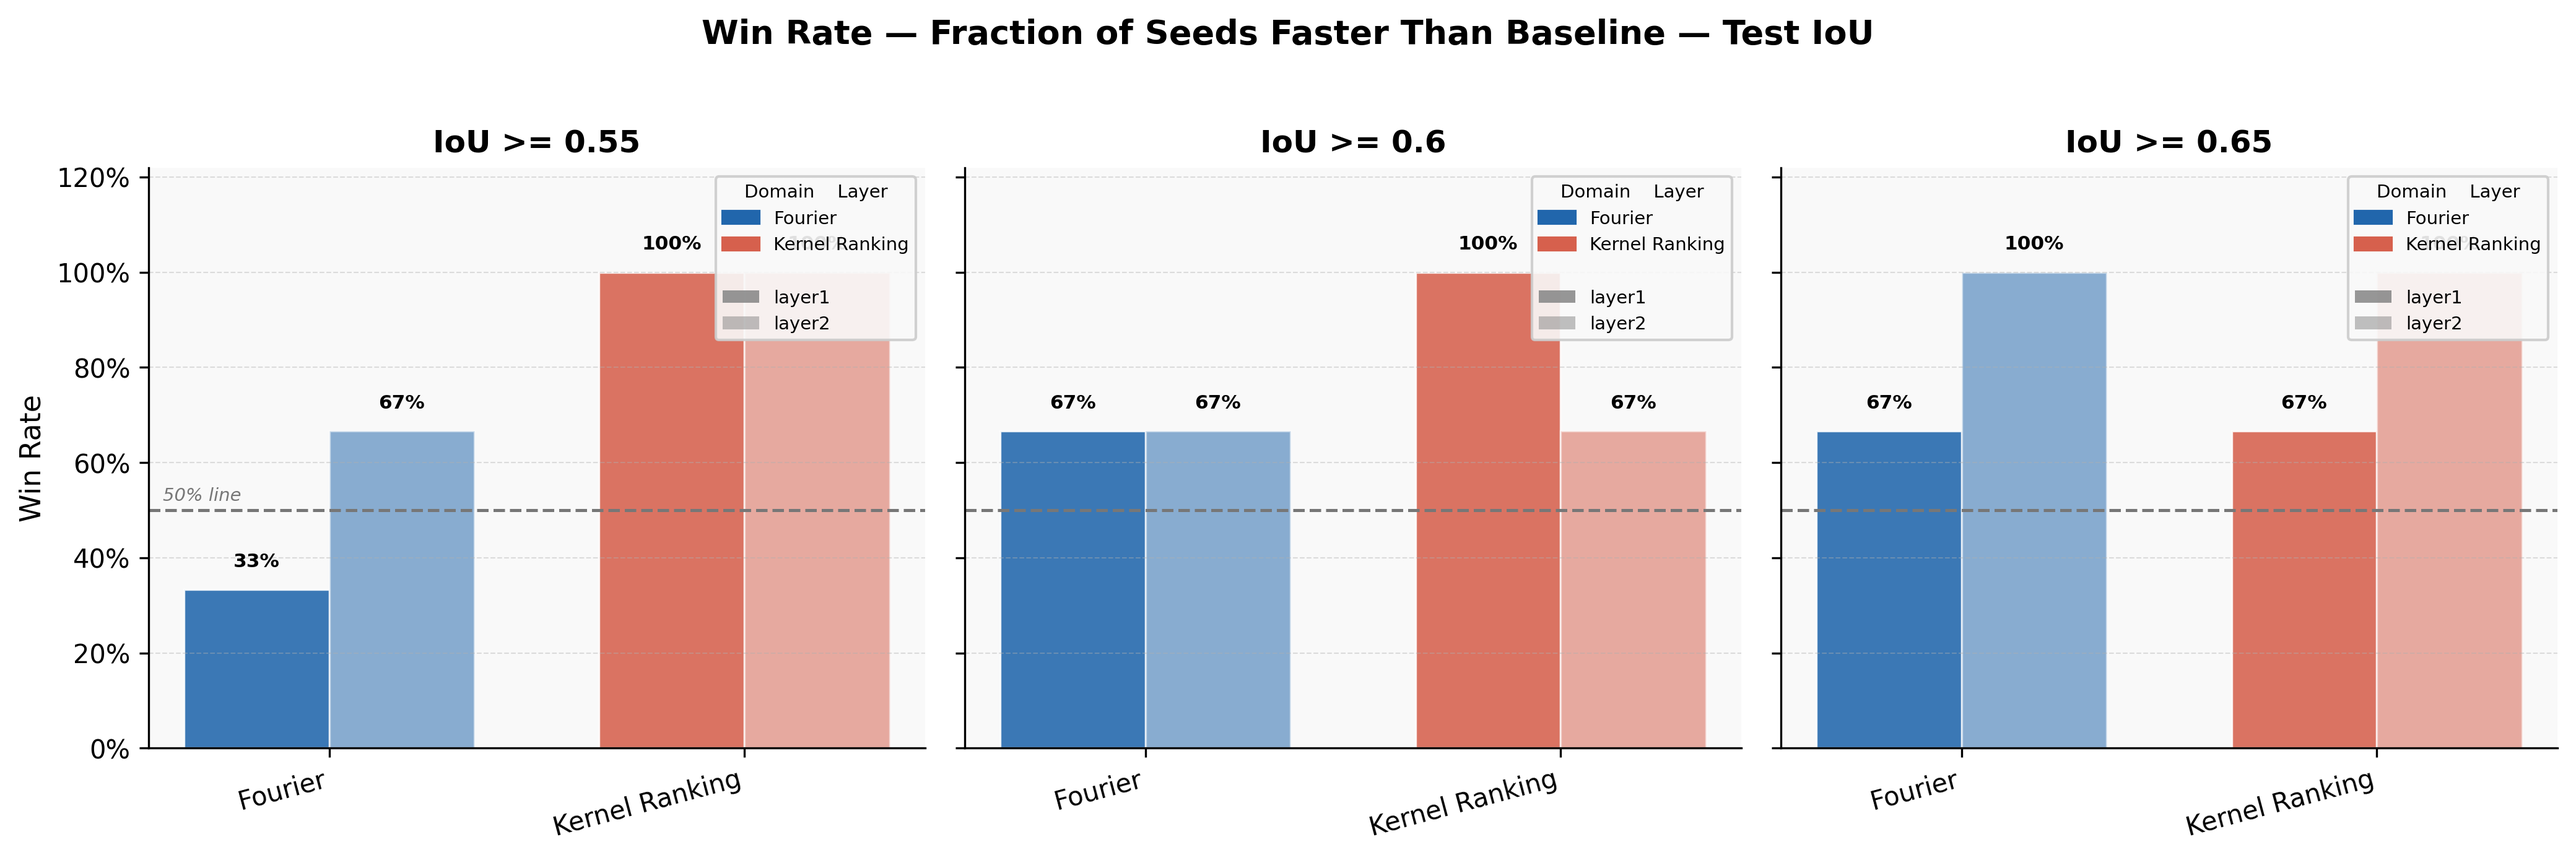
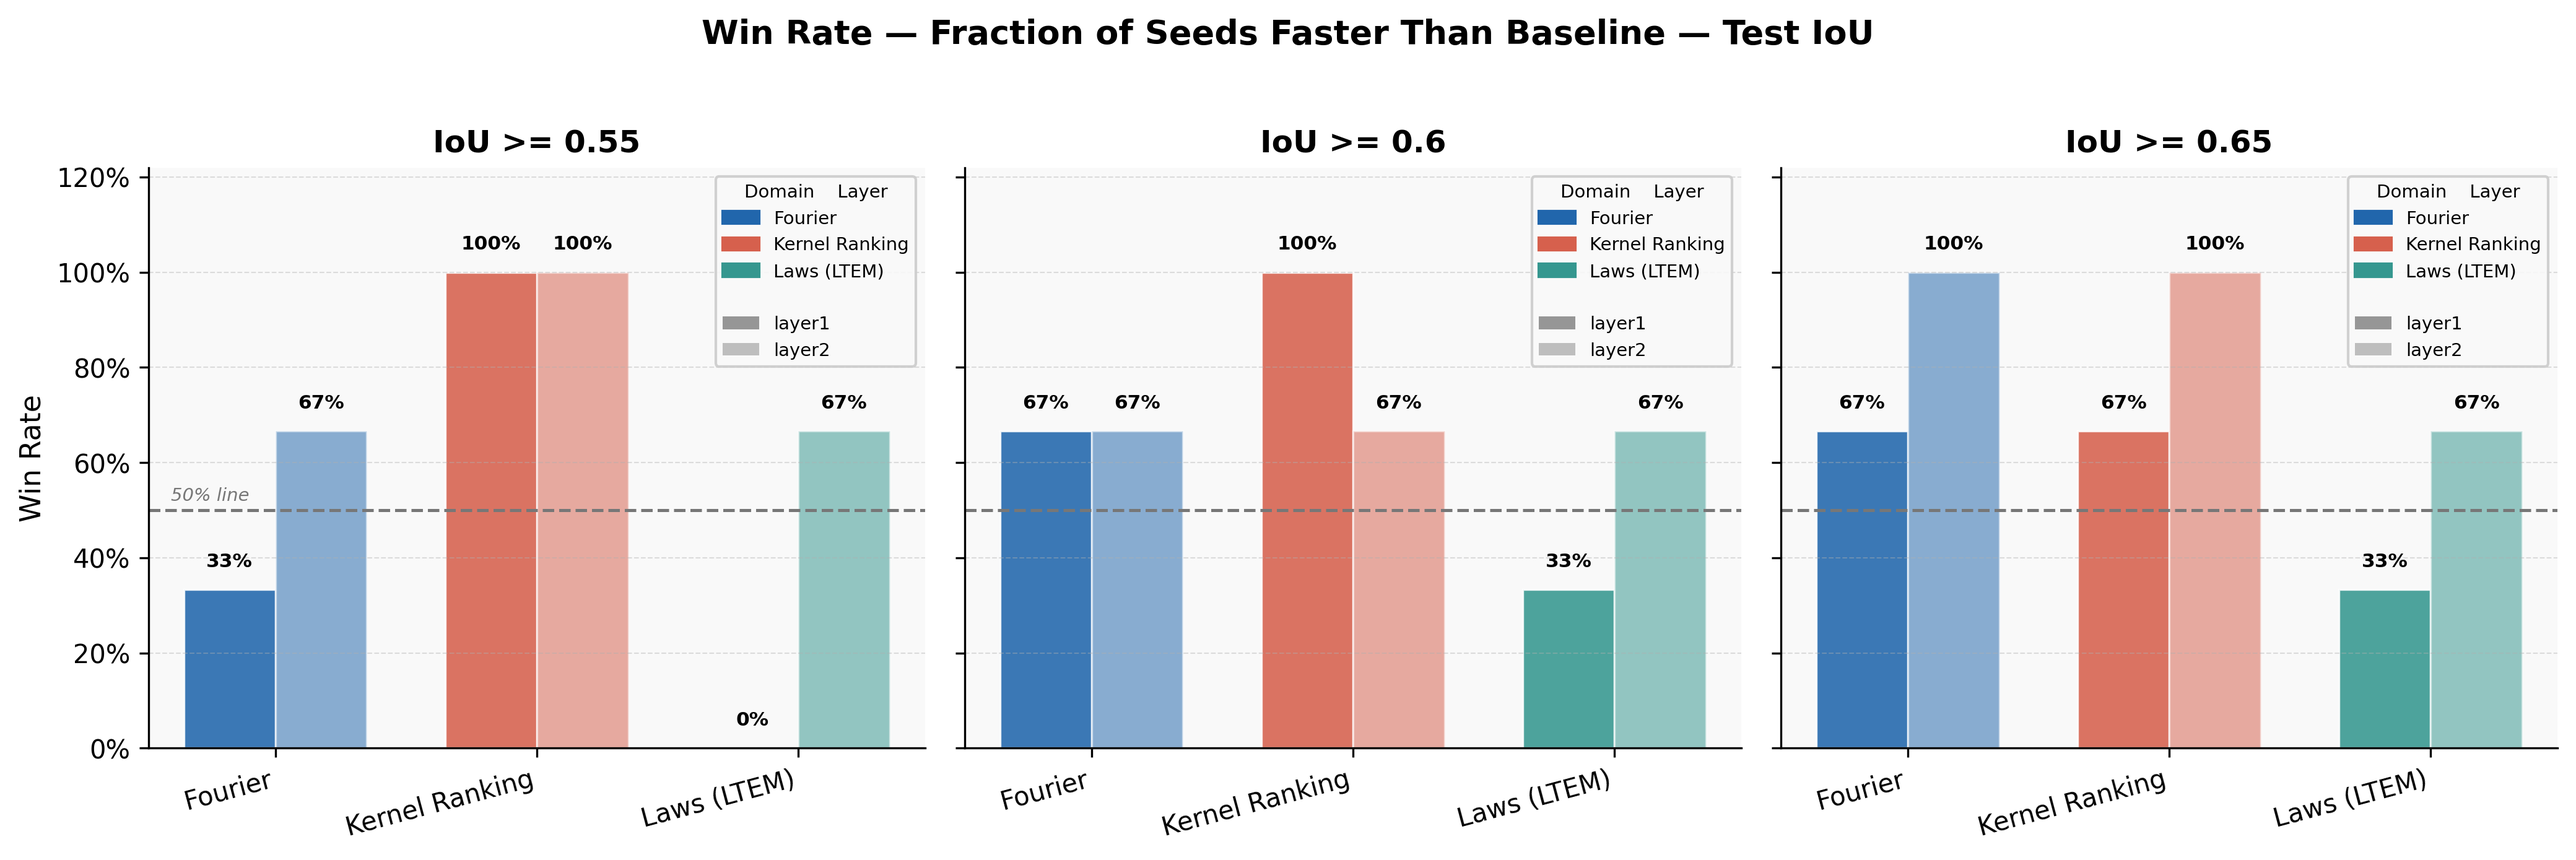
analyze

diff --git a/src/models/xai-analyze-runs/analyze.py b/src/models/xai-analyze-runs/analyze.py
@@ -30,7 +30,7 @@ DOMAIN_FOLDERS = {
     "xai-model-run-baseline/logs": "Baseline",
     "xai-model-run3-ft/logs":      "Fourier",
     "xai-model-run4-kr/logs":      "Kernel Ranking",
-    # "xai-model-run6-ltem/logs":  "Laws (LTEM)",
+    "xai-model-run6-ltem/logs":  "Laws (LTEM)",
 }
 
 LAYER_PATTERN = re.compile(r"layer(\d+)")
